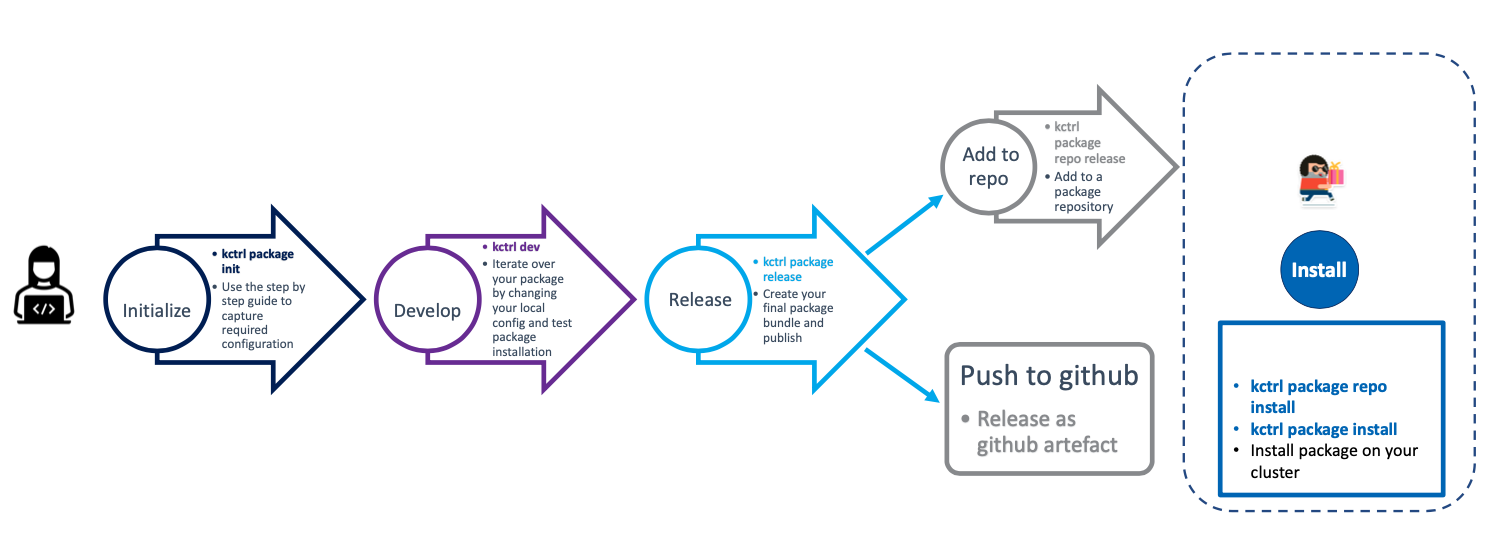
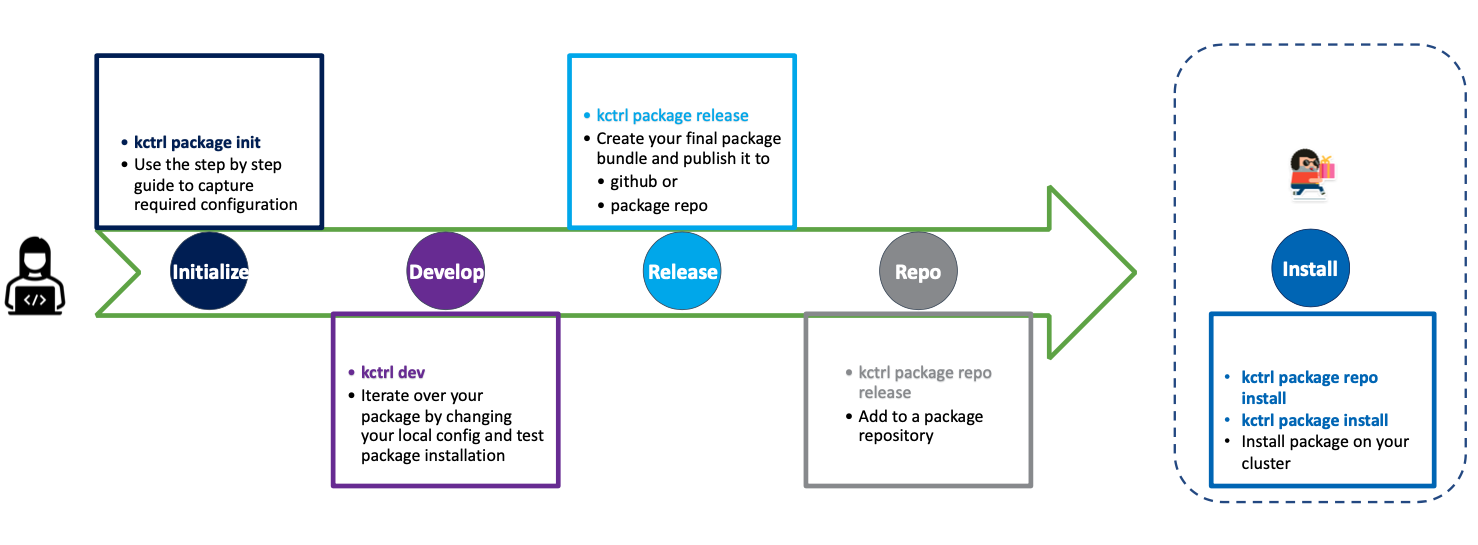
Removing the unused image.
Removing the unused image.

diff --git a/site/content/blog/package-authoring-with-kctrl.md b/site/content/blog/package-authoring-with-kctrl.md
@@ -37,7 +37,7 @@ Today, package authors are supposed to know tools like [imgpkg](https://carvel.d
 
 * [**kctrl package repo release**](/kapp-controller/docs/latest/authoring-command/#releasing-a-package-repository): This command will create and push the package repository bundle consisting of all the package and packageMetadata files present in the `packages` folder in the working directory. This repository bundle can later on be consumed by package consumers.
 
-![Kctrl flow for kubernetes-package-authoring2](/images/blog/introducing-kctrl-package-authoring-commands2.png)
+![Kctrl flow for kubernetes-package-authoring](/images/blog/introducing-kctrl-package-authoring-commands.png)
 
 All these commands are available from version [v0.40.0+](https://github.com/vmware-tanzu/carvel-kapp-controller/releases/latest). You can find tutorial with end to end workflow for package authoring [here](/kapp-controller/docs/latest/kctrl-package-authoring.md)!
 
